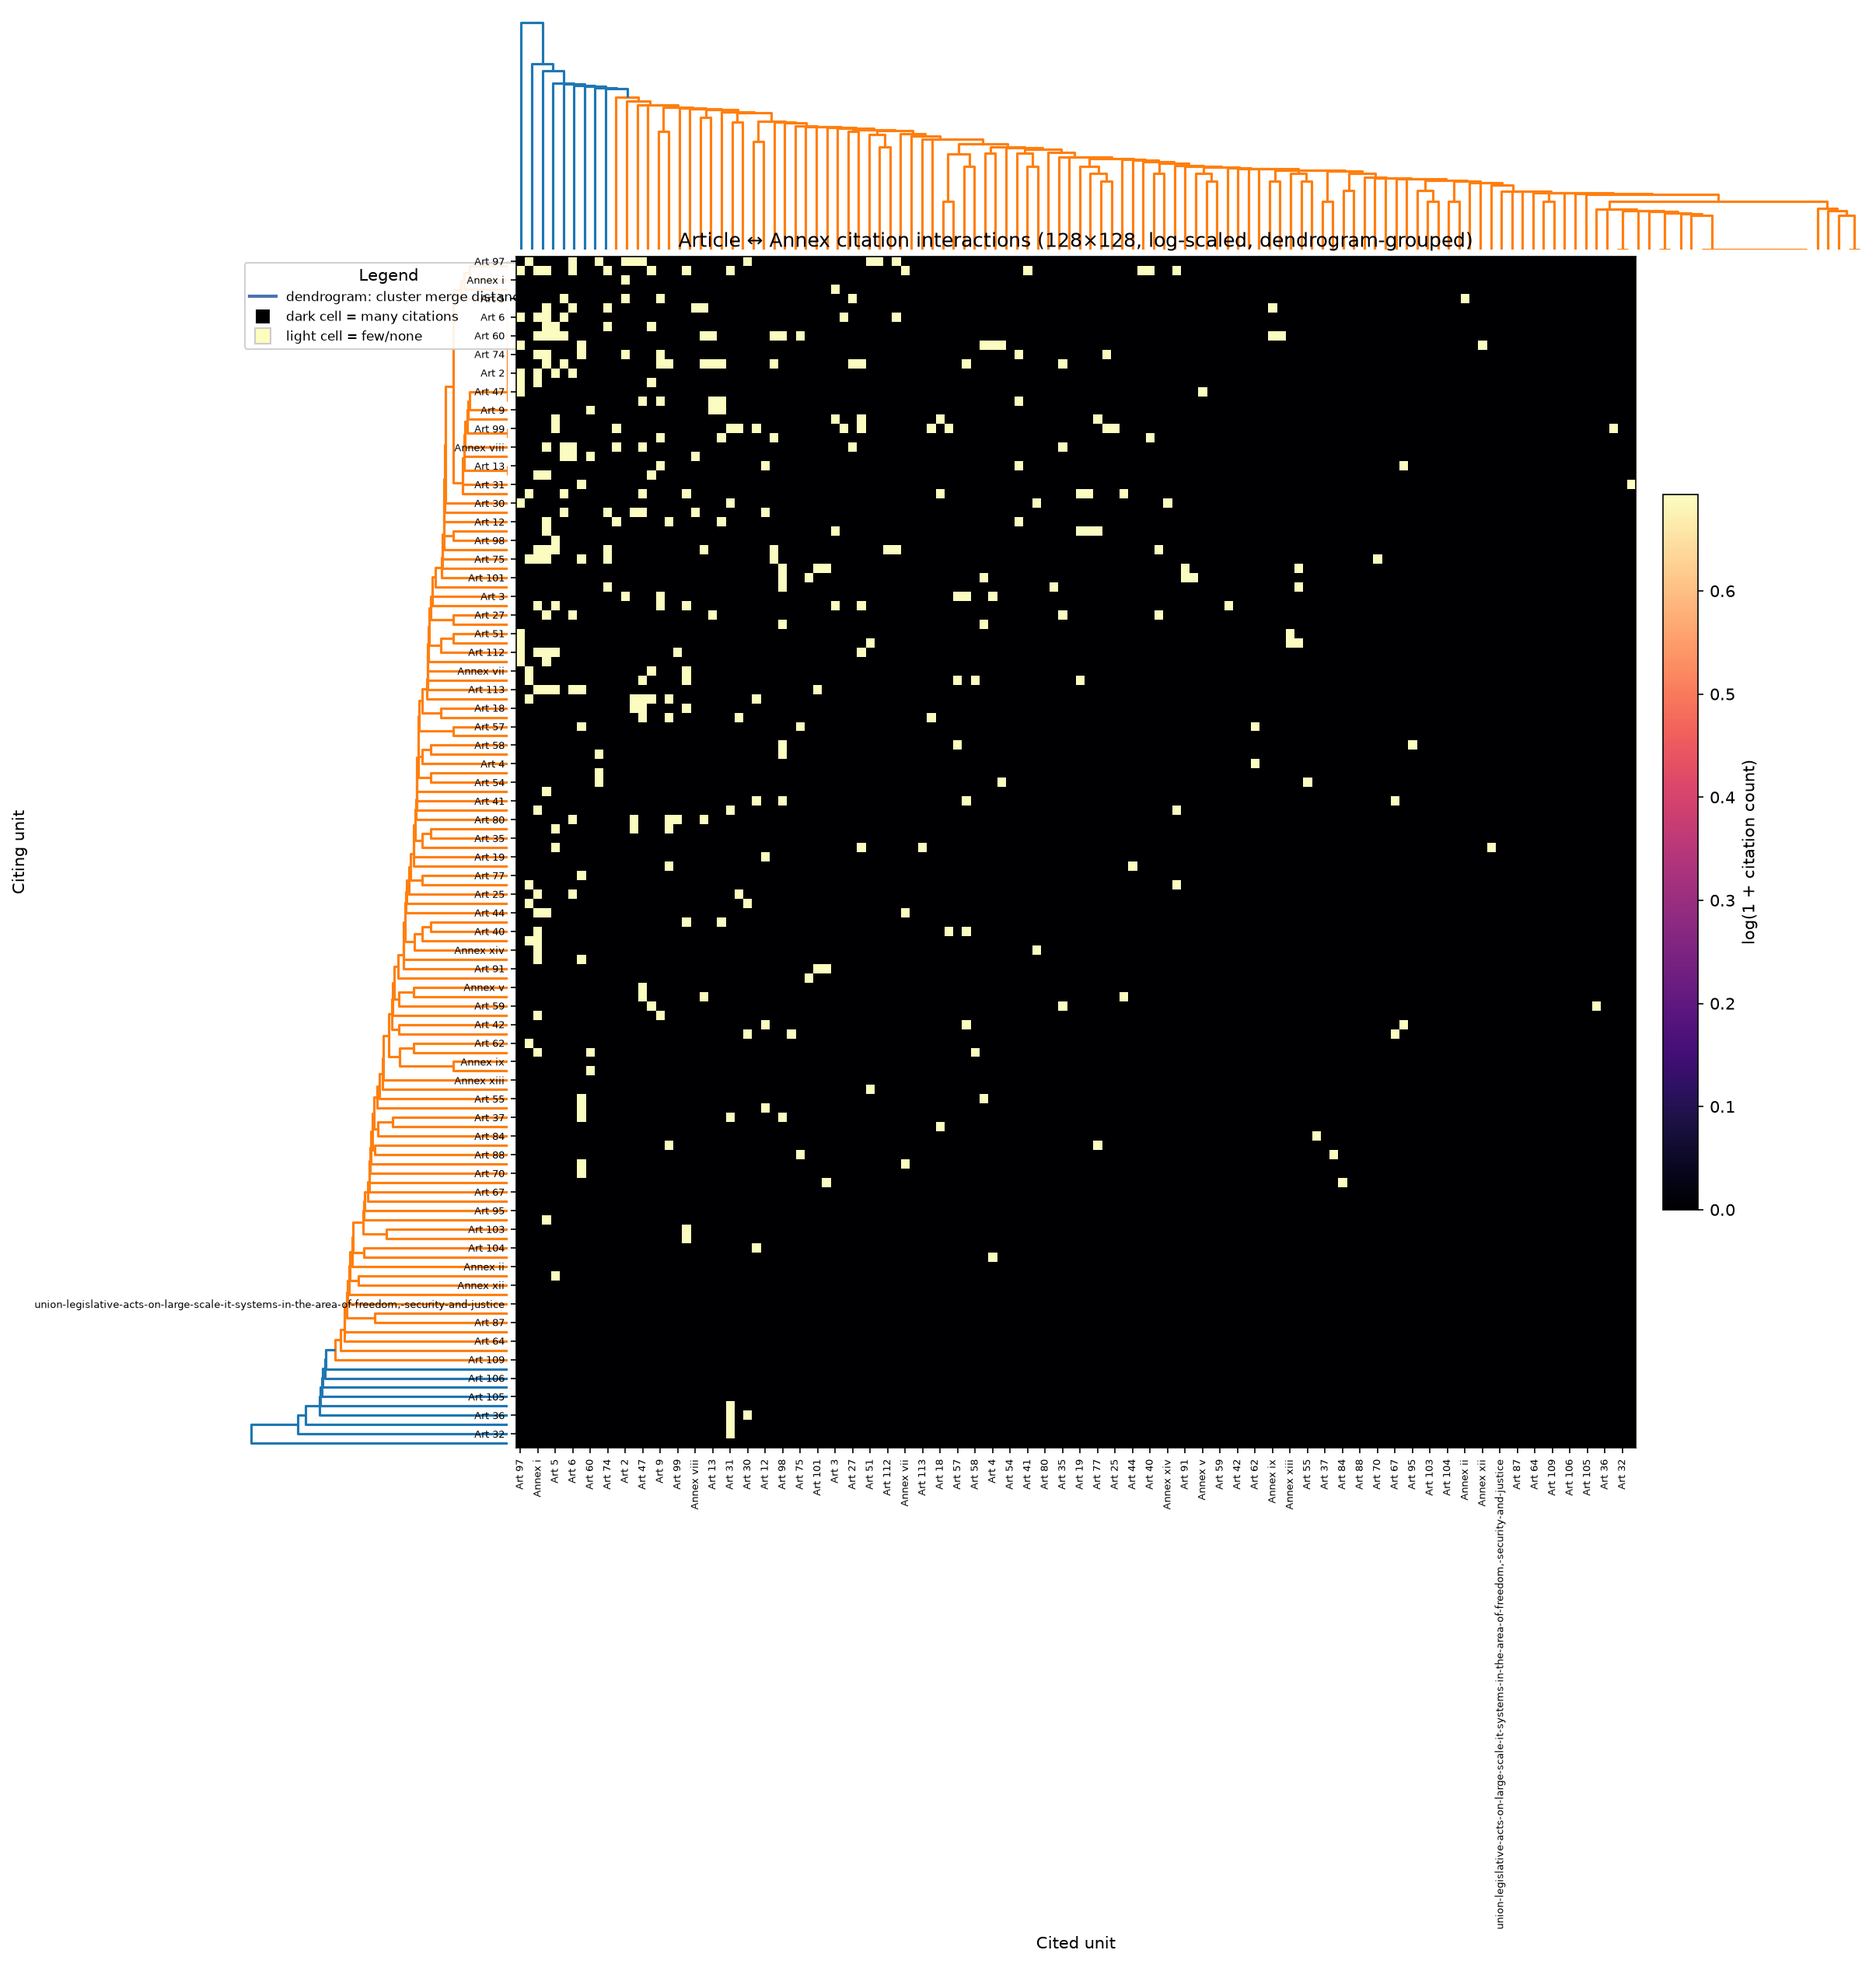
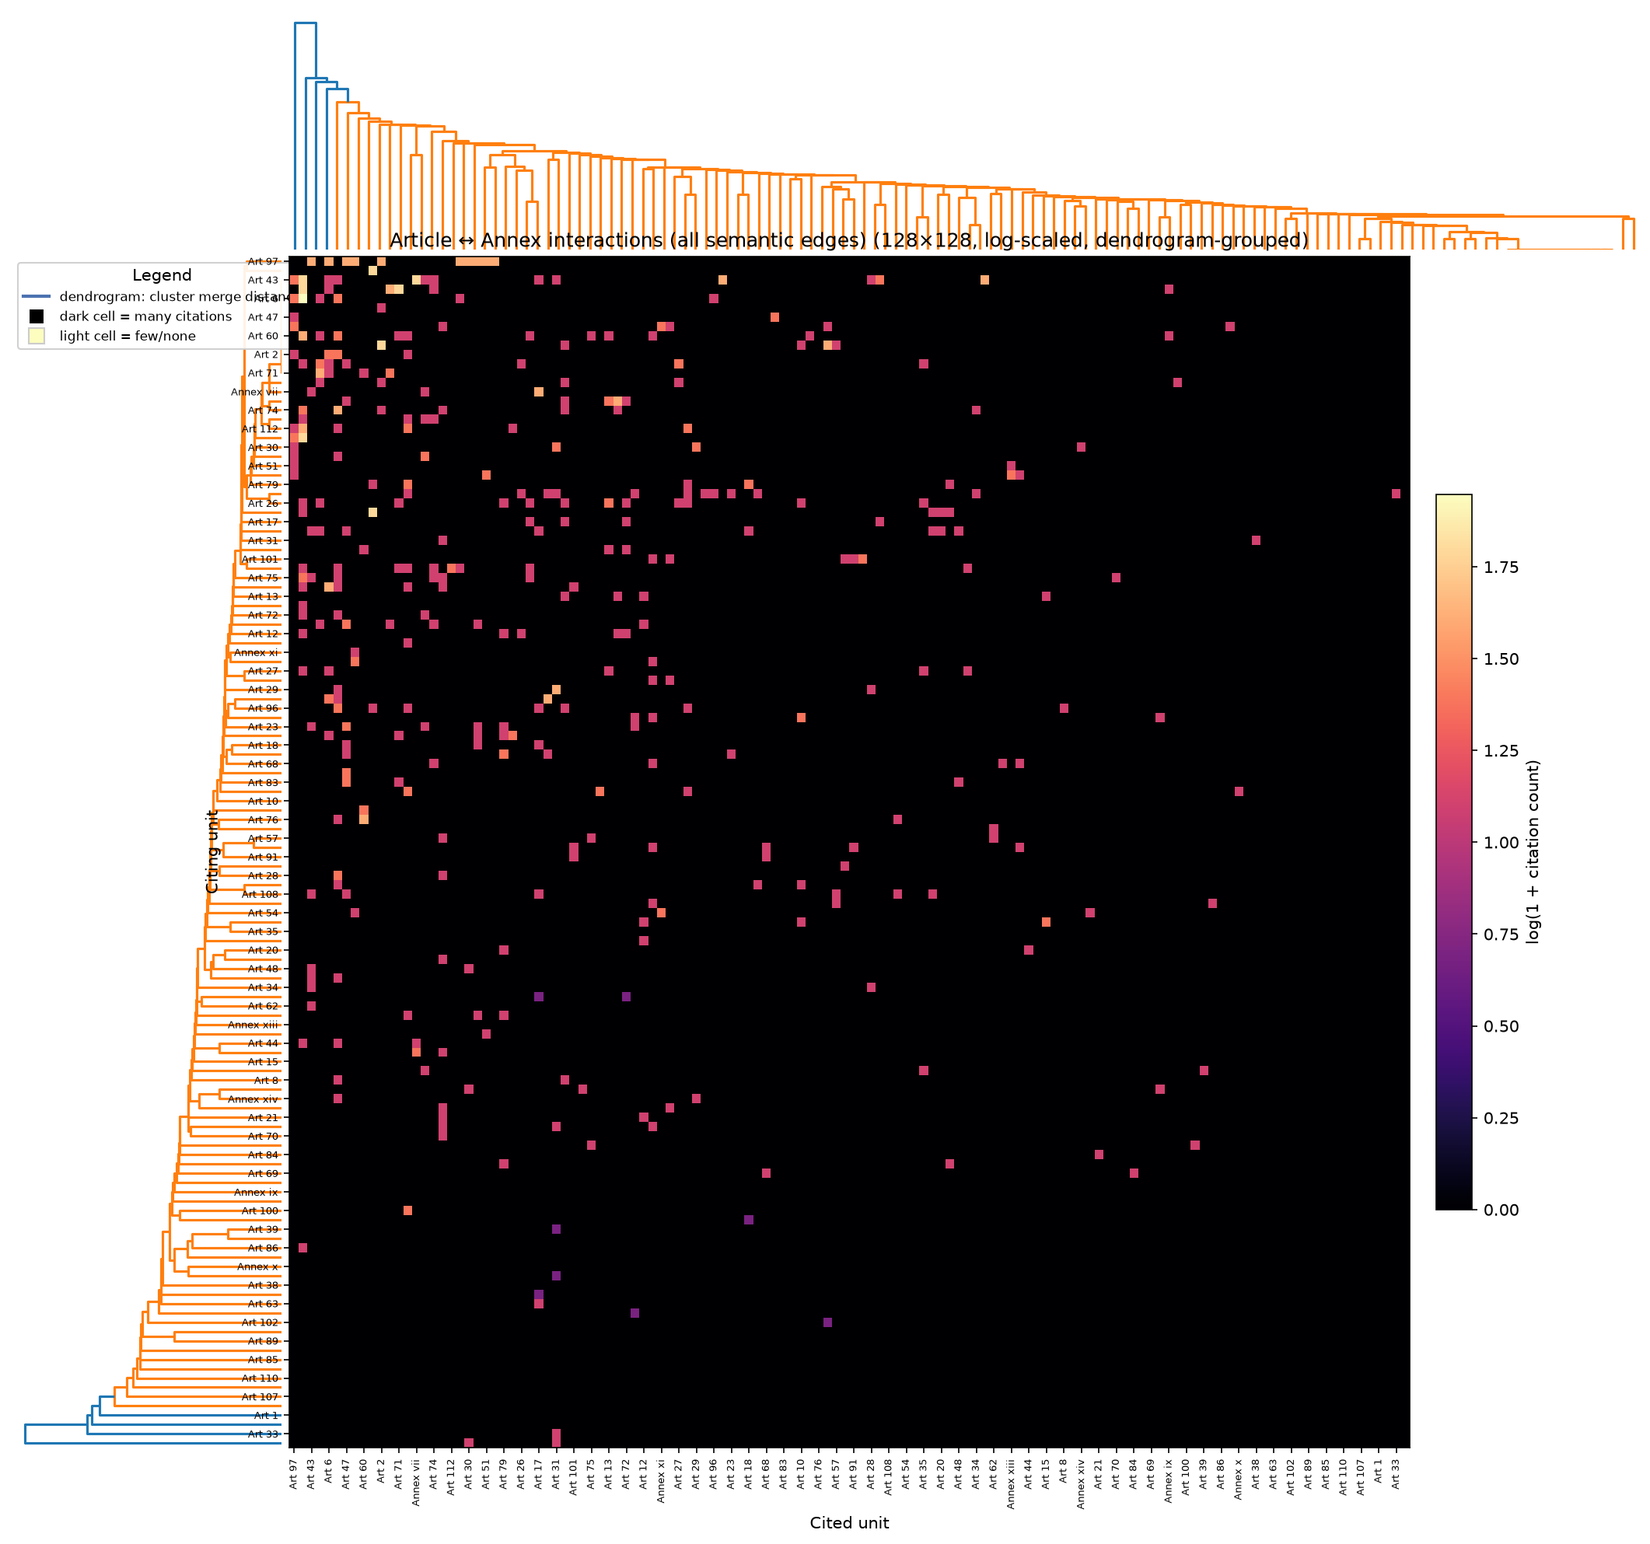
fix: heatmap aggregates all semantic edge kinds — cells span 0-6+ not binary
The heatmap was binary because it counted only direct unit-level REFERENCES
(max 1 per cell pair). Now aggregates clause-level USES_DEFINITION,
INTERPRETS, and CLASSIFIES_AS edges to their root units, so cell intensity
reflects total interaction strength (distribution: 1x8, 2x283, 3x47, 4x24,
5x8, 6x1). Legend updated to match.

diff --git a/scripts/visualize.py b/scripts/visualize.py
@@ -163,26 +163,29 @@ def static_charts(g, out_dir: Path) -> None:
 
 
 def heatmap_chart(g, out_dir: Path, level: str = "article") -> None:
-    """Interaction heatmap: unit × unit REFERENCES matrix, grouped by
+    """Interaction heatmap: unit × unit interaction matrix, grouped by
     hierarchical clustering with dendrograms on both axes.
 
-    Dendrograms show the cluster hierarchy (which units cite alike) alongside
-    the collated matrix — block structure emerges from the clustering order.
+    Cells count ALL semantic interactions between two units (direct
+    REFERENCES + clause-level USES_DEFINITION/INTERPRETS aggregated to
+    unit level), so cell intensity spans 0..6+ rather than binary.
+
+    Dendrograms show the cluster hierarchy (which units interact alike)
+    alongside the collated matrix.
     """
     import numpy as np
     from scipy.cluster.hierarchy import dendrogram, linkage
-    from scipy.spatial.distance import pdist
 
     if level == "article":
         unit_ids = sorted(n.id for n in g.nodes.values() if n.type in ("Article", "Annex"))
-        title = "Article ↔ Annex citation interactions"
+        title = "Article ↔ Annex interactions (all semantic edges)"
         fname = "heatmap-articles.png"
     else:
         # Clause-level: paragraphs + points (top N by interaction count)
         unit_ids = sorted(
             n.id for n in g.nodes.values() if n.type in ("Paragraph", "Point", "SubPoint")
         )
-        title = "Clause-level citation interactions (paragraphs/points)"
+        title = "Clause-level interactions (paragraphs/points)"
         fname = "heatmap-clauses.png"
 
     index = {nid: i for i, nid in enumerate(unit_ids)}
@@ -190,12 +193,20 @@ def heatmap_chart(g, out_dir: Path, level: str = "article") -> None:
     if n < 5:
         return
 
+    # Aggregate ALL semantic edges to unit level. USES_DEFINITION and
+    # clause-level REFERENCES live on sub-units (article-6.1.a) — roll them
+    # up to their root unit so the matrix reflects total interaction strength.
+    SEMANTIC_KINDS = ("REFERENCES", "USES_DEFINITION", "INTERPRETS", "CLASSIFIES_AS")
     mat = np.zeros((n, n))
     for e in g.edges:
-        if e.kind != "REFERENCES":
+        if e.kind not in SEMANTIC_KINDS:
             continue
-        if e.src in index and e.dst in index:
-            mat[index[e.src], index[e.dst]] += 1
+        src_root = e.src.split(".")[0]
+        dst_root = e.dst.split(".")[0]
+        if src_root == dst_root:
+            continue  # skip self-interactions within a unit
+        if src_root in index and dst_root in index:
+            mat[index[src_root], index[dst_root]] += 1
 
     # Clause-level matrix is huge — keep only units with >=1 interaction
     if level != "article":
